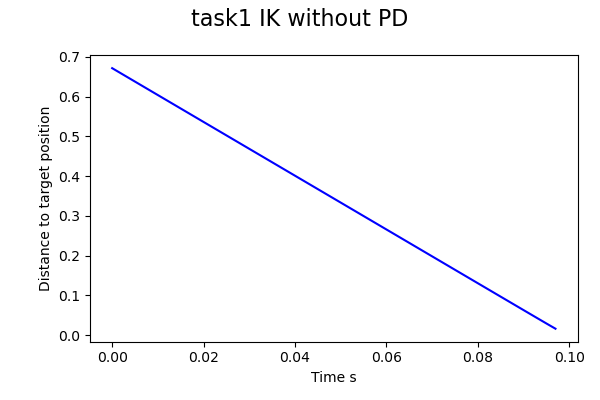
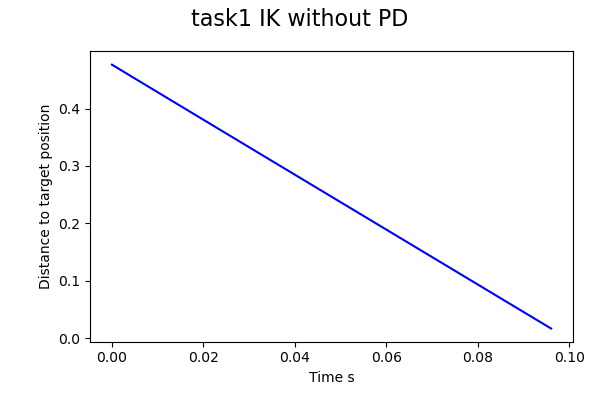
Cubic Interpolation

diff --git a/core/Pybullet_Simulation.py b/core/Pybullet_Simulation.py
@@ -464,13 +464,23 @@ class Simulation(Simulation_base):
         cubic spline defined by the control points,
         sampled nTimes along the curve.
         """
-        #TODO add your code here
+        # COMPLETE add your code here
         # Return 'nTimes' points per dimension in 'points' (typically a 2xN array),
         # sampled from a cubic spline defined by 'points' and a boundary condition.
         # You may use methods found in scipy.interpolate
 
-        #return xpoints, ypoints
-        pass
+        xpoints, ypoints = [], []
+
+        poly = CubicSpline(range(0, len(points)), points)
+        step = (len(points)-1)/ nTimes
+        dist = 0
+
+        for n in range(0,nTimes+1):
+            xpoints.append(poly(dist)[0])
+            ypoints.append(poly(dist)[1])
+            dist += step
+
+        return xpoints, ypoints
 
     # Task 3.1 Pushing
     def dockingToPosition(self, leftTargetAngle, rightTargetAngle, angularSpeed=0.005,

diff --git a/task1/task1.py b/task1/task1.py
@@ -58,7 +58,7 @@ ref = [0, 0, 1]
 sim = Simulation(pybulletConfigs, robotConfigs, refVect=ref)
 
 endEffector = "RARM_JOINT5"
-targetPosition = np.array([0.5, 0.4, 1.06385])  # x,y,z coordinates in world frame
+targetPosition = np.array([0.3, 0.2, 1.06385])  # x,y,z coordinates in world frame
 
 # Example code. Feel free to modify
 pltTime, pltEFPosition = sim.move_without_PD(endEffector, targetPosition, speed=0.01, orientation=None, threshold=1e-2, maxIter=100, debug=False, verbose=False)

diff --git a/task2/task2.py b/task2/task2.py
@@ -55,8 +55,8 @@ task2_figure_name = "task2_PD_response.png"
 task2_savefig = False
 ### to here
 
-#endEffector = "LARM_JOINT5"
-#targetPosition = np.array([0.37, 0.23, 1.06385])
+endEffector = "LARM_JOINT5"
+targetPosition = np.array([0.37, 0.23, 1.06385])
 
 pltTime, pltEFPosition = sim.move_with_PD(task2_jointName, task2_targetPosition, speed=0.01, orientation=None, threshold=1e-3, maxIter=500, debug=False, verbose=False)
 
